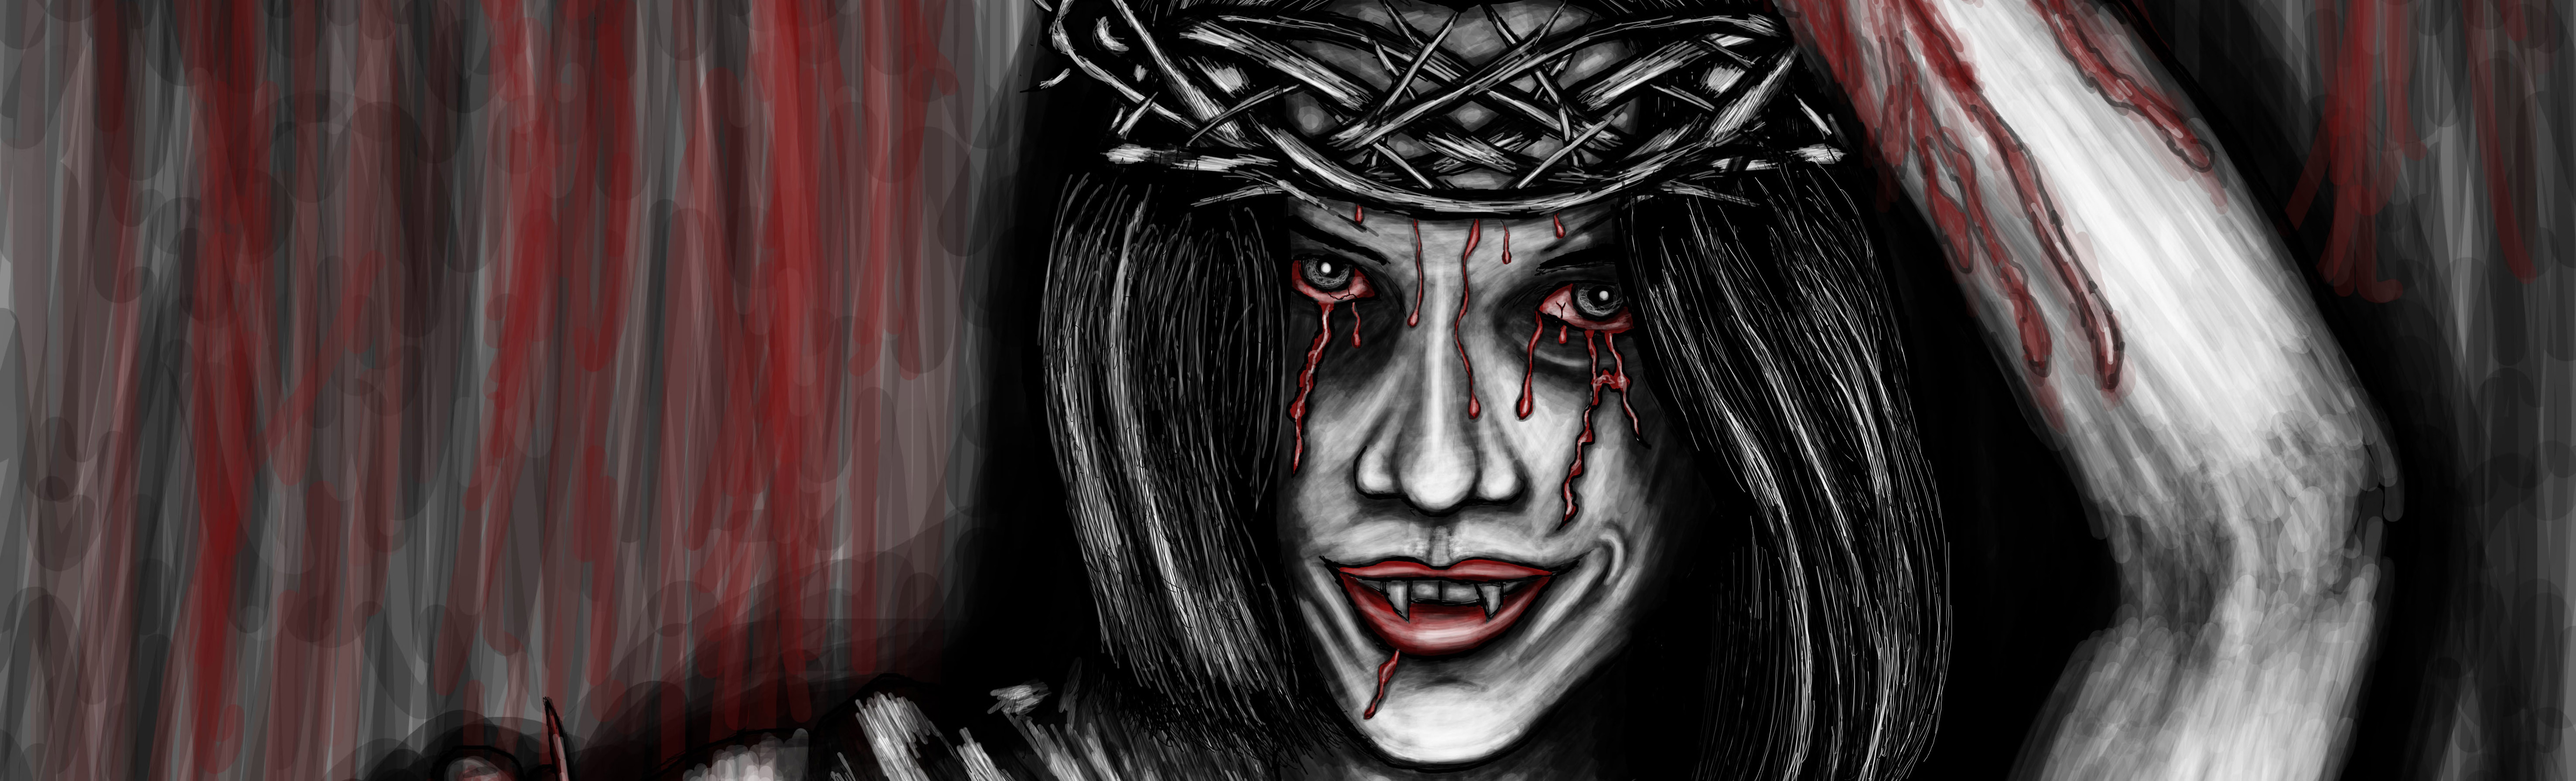
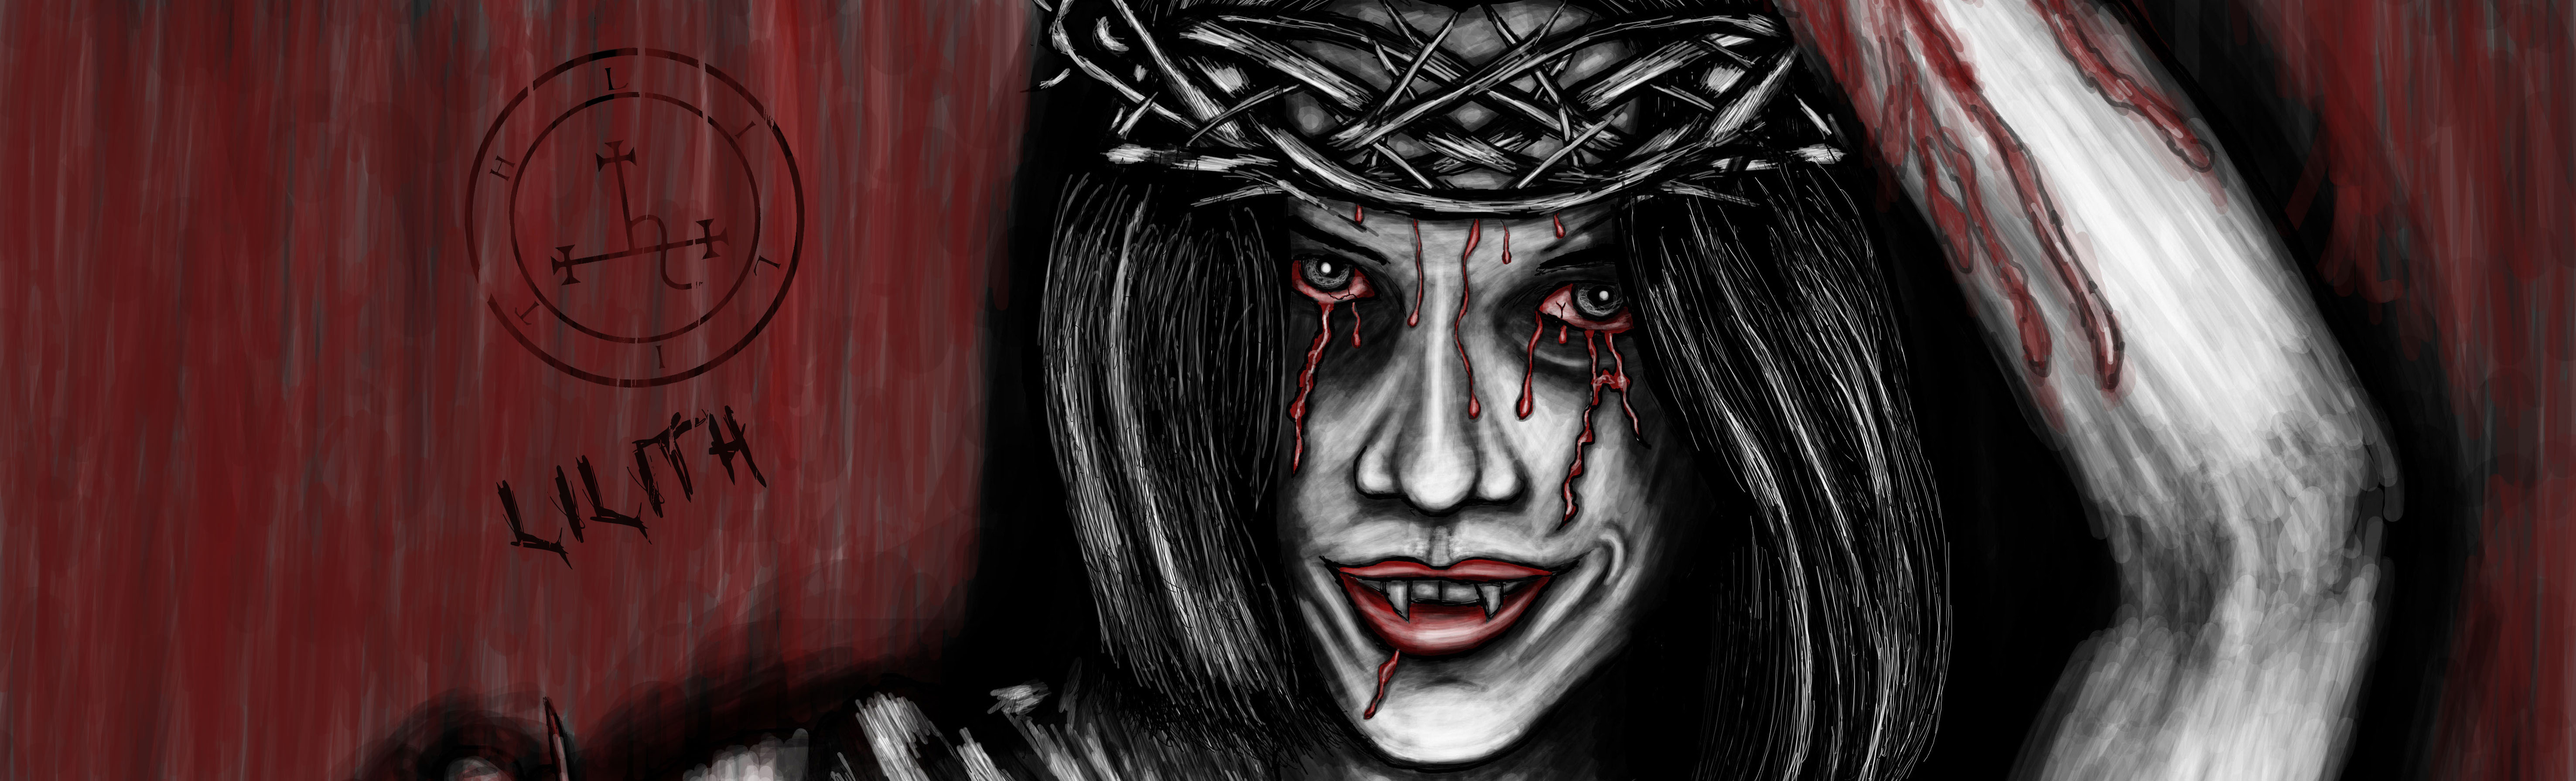
Add again Lilith art 2

Changed region(s): [[0.0, 0.0, 0.405, 1.0], [0.8723, 0.0, 1.0, 1.0], [0.997, 0.0307, 1.0, 0.0614]]

diff --git a/src/components/lilithTwo.jsx b/src/components/lilithTwo.jsx
@@ -8,6 +8,7 @@ function LilithTwo(props) {
         <div className="page_container--horizon">
           <h1 className="page_title">Lilith</h1>
           <main id="lilithTwo" className="activeArt">
+          <div className="lilithName"></div>  
           <button className="backBtn"><a className="showMore" href="/lilith">Back</a></button>
           </main>
             

diff --git a/src/style/horizonArtpage.scss b/src/style/horizonArtpage.scss
@@ -288,3 +288,5 @@ button
     50% { color: white; text-shadow: 10px 0px 6px rgba(255, 255, 255, 1);}
     100% { color: $light-orange; text-shadow: 0px 0px 6px rgba(255, 255, 255, 0);}
 }
+
+
